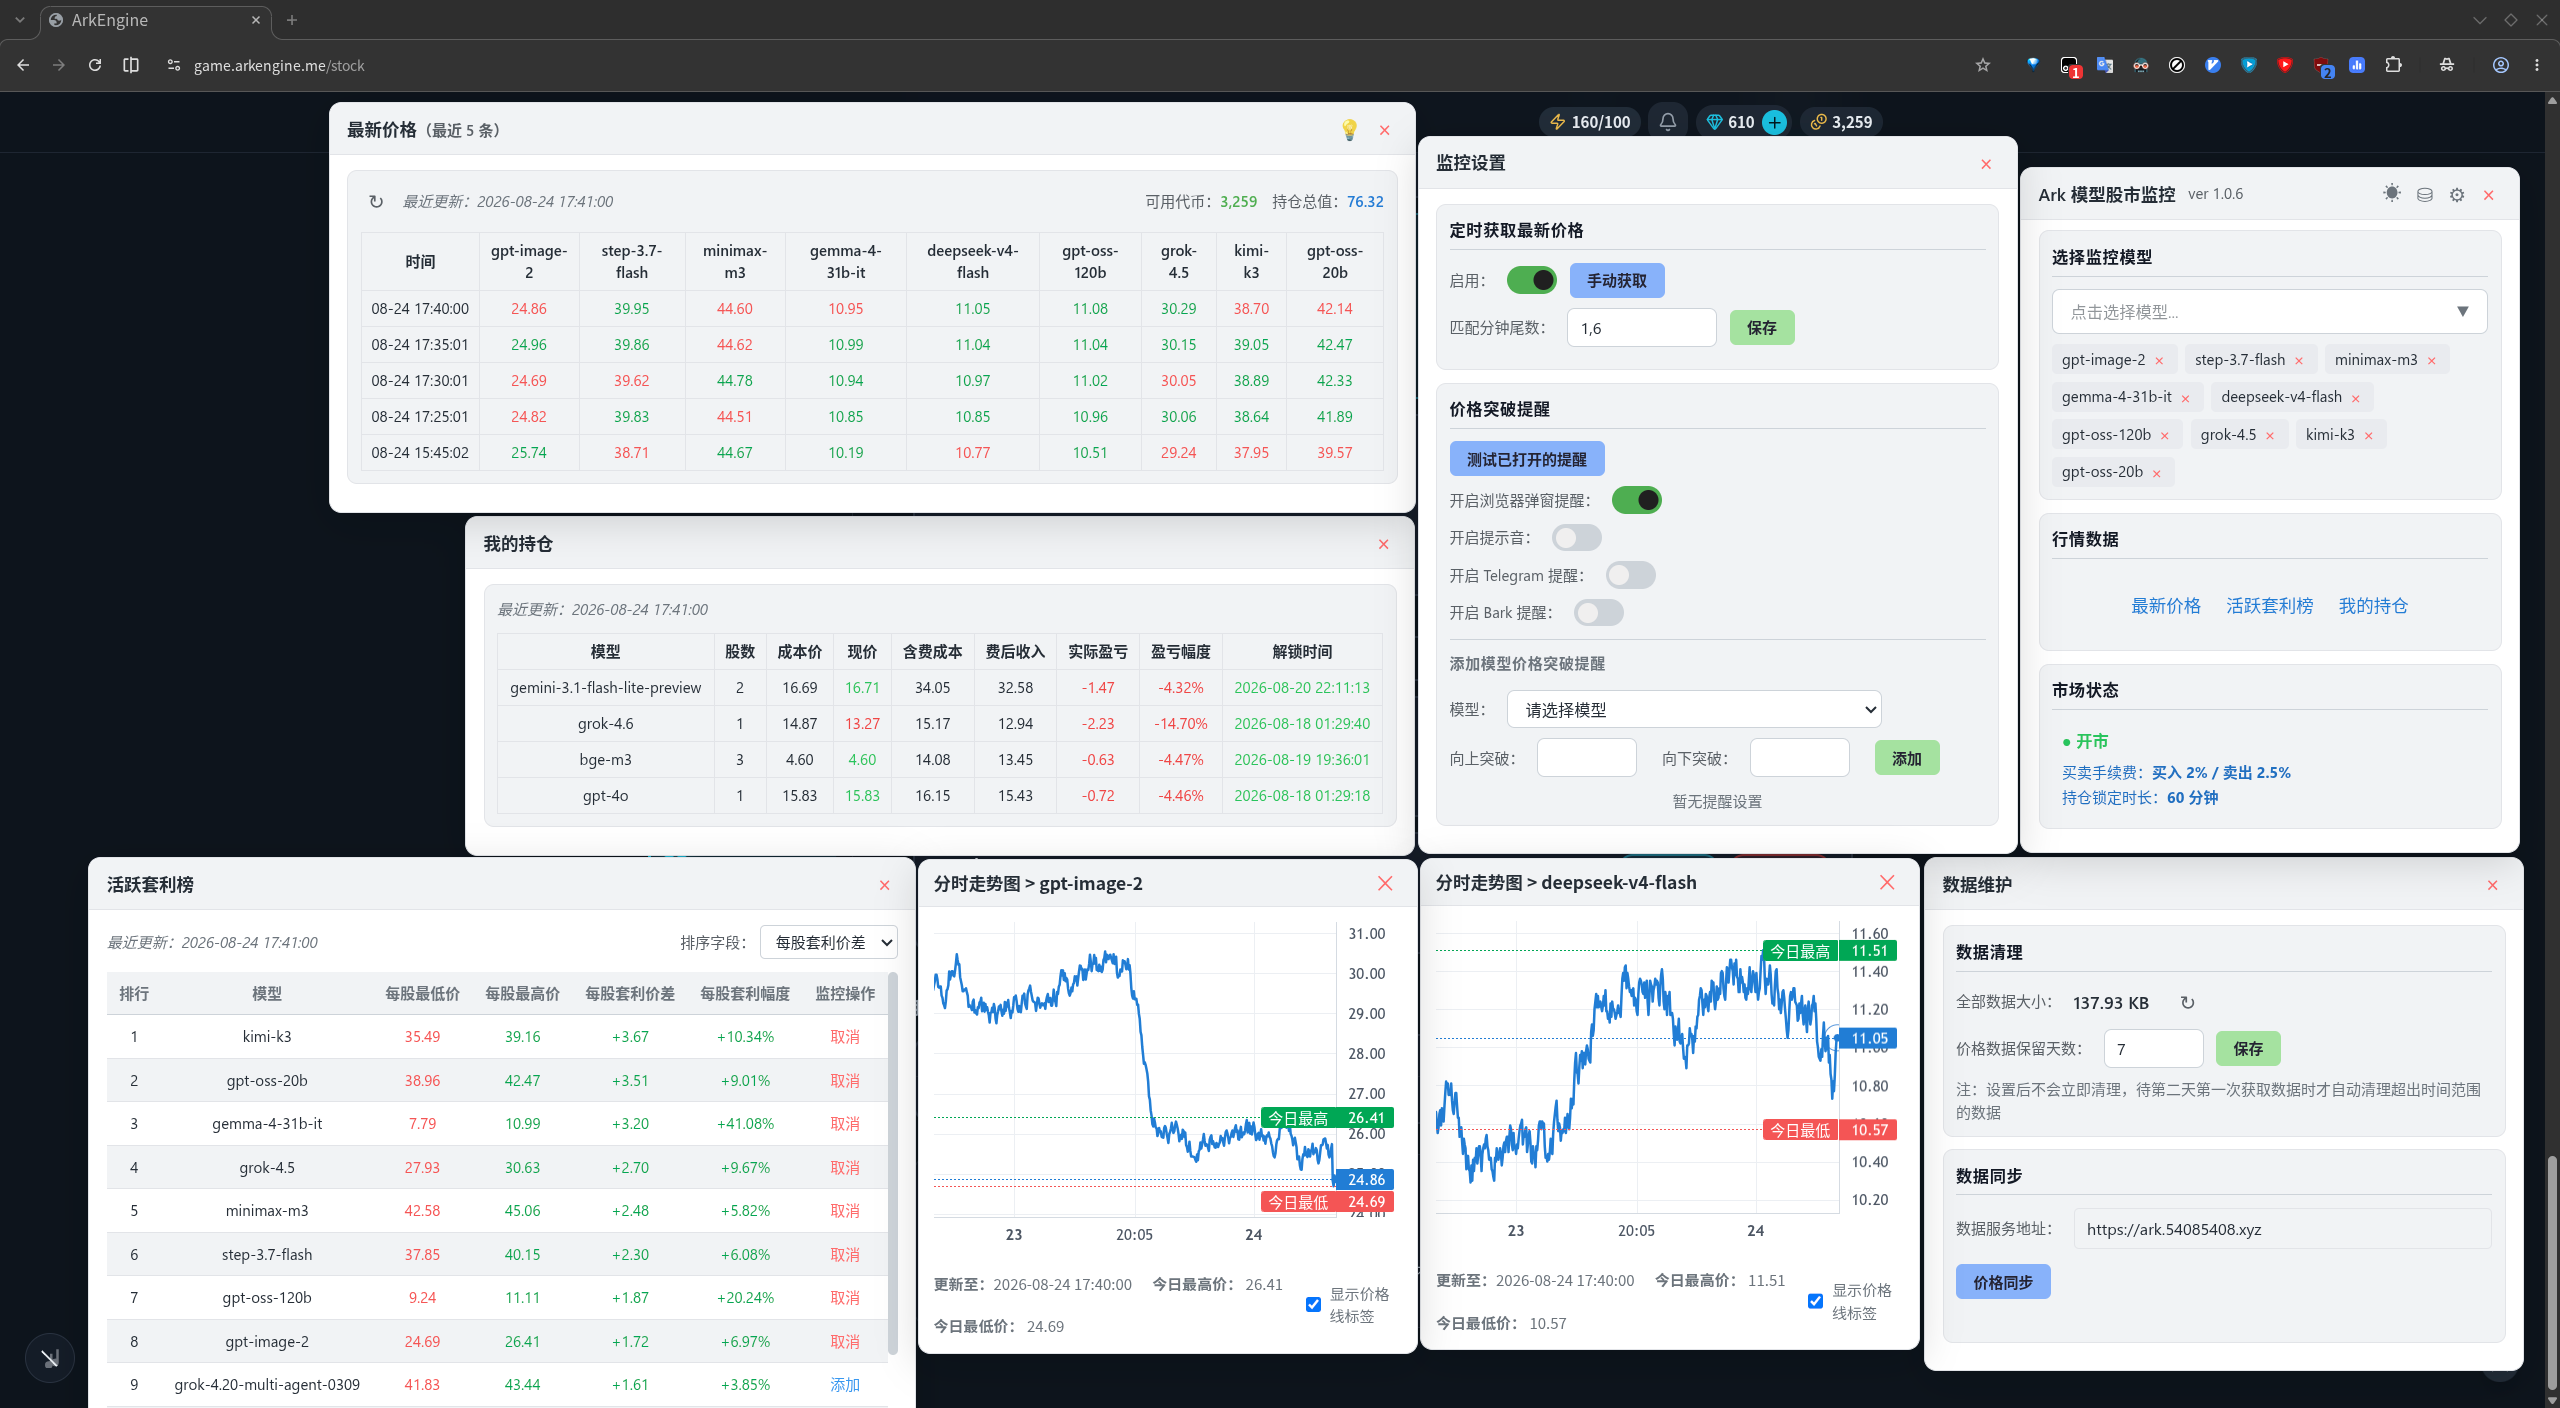
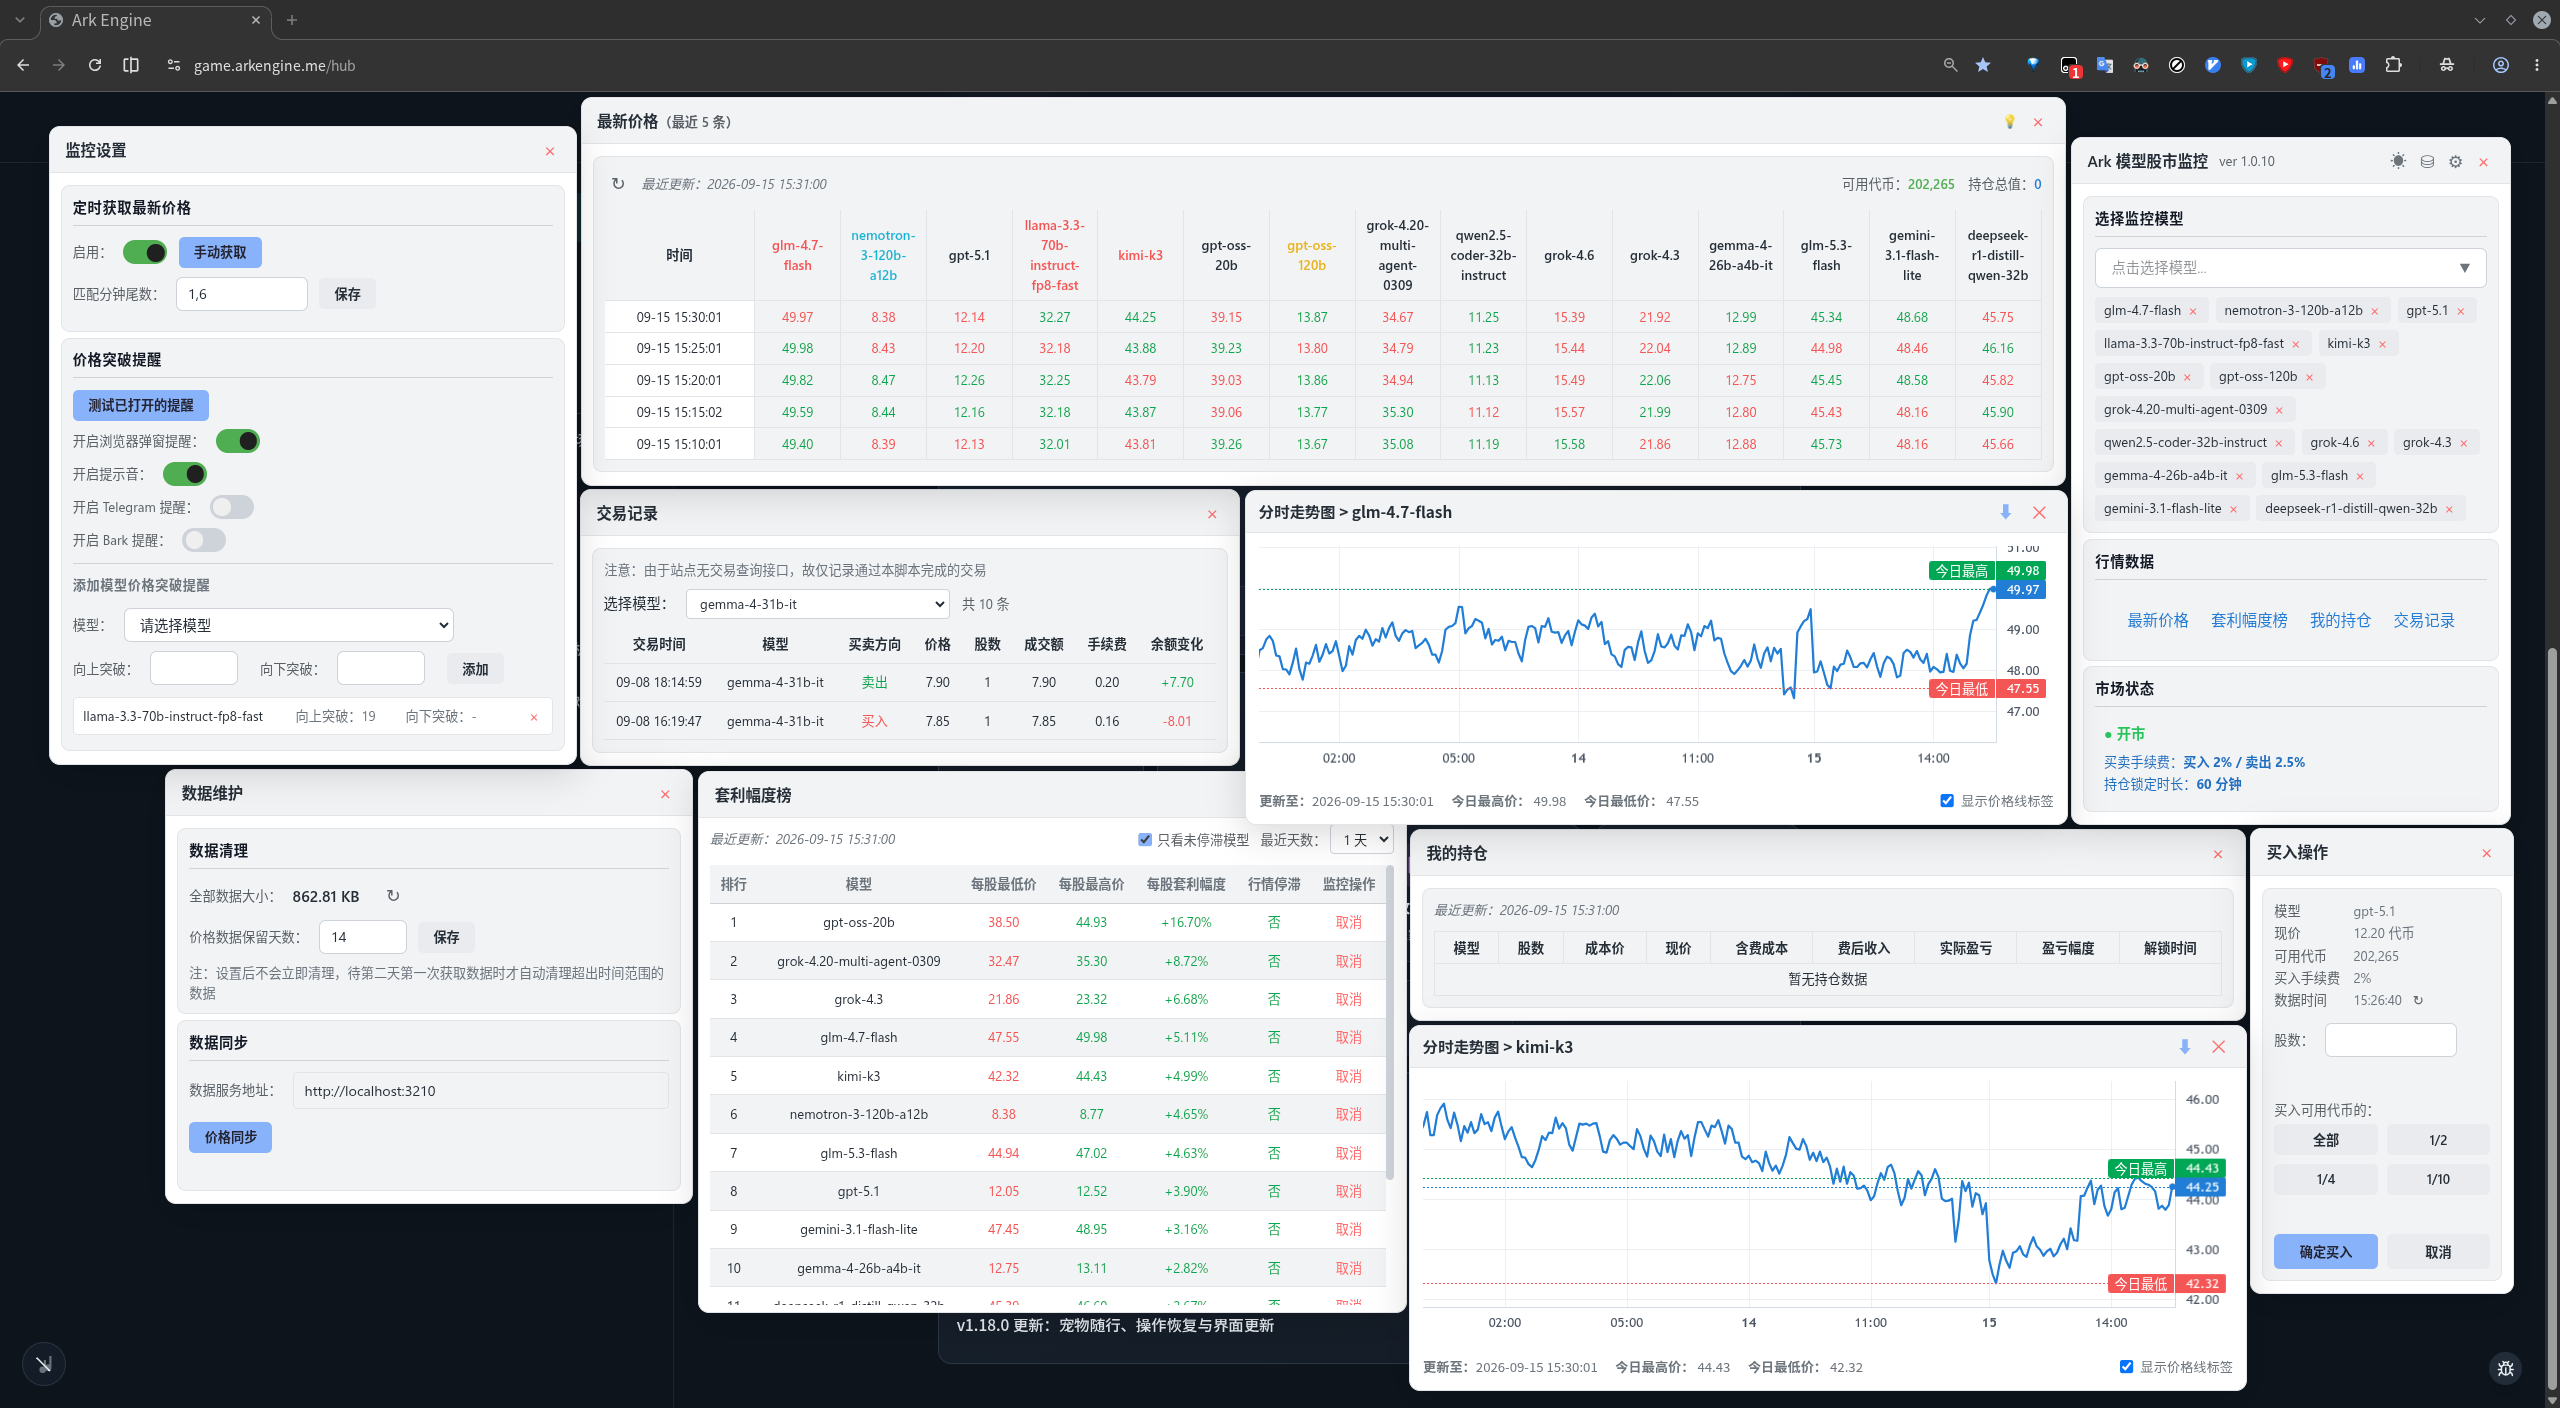
docs: 更新文档引用的资源

Changed region(s): [[0.0, 0.0625, 1.0, 1.0], [0.9688, 0.0, 1.0, 0.0312], [0.0312, 0.0, 0.0625, 0.0312]]

diff --git a/ark-game-stock-monitor.user.js b/ark-game-stock-monitor.user.js
@@ -2,7 +2,7 @@
 // @name         Ark API 模型股市监控
 // @description  Ark 模型股市数据聚合分析与价格变动通知（game.arkengine.me）
 // @namespace    http://tampermonkey.net/
-// @version      1.0.9
+// @version      1.0.10
 // @author       ziugat
 // @license      GPL-3.0
 // @homepage     https://github.com/ZiugatWong/ark-api-model-stock-market-monitor
